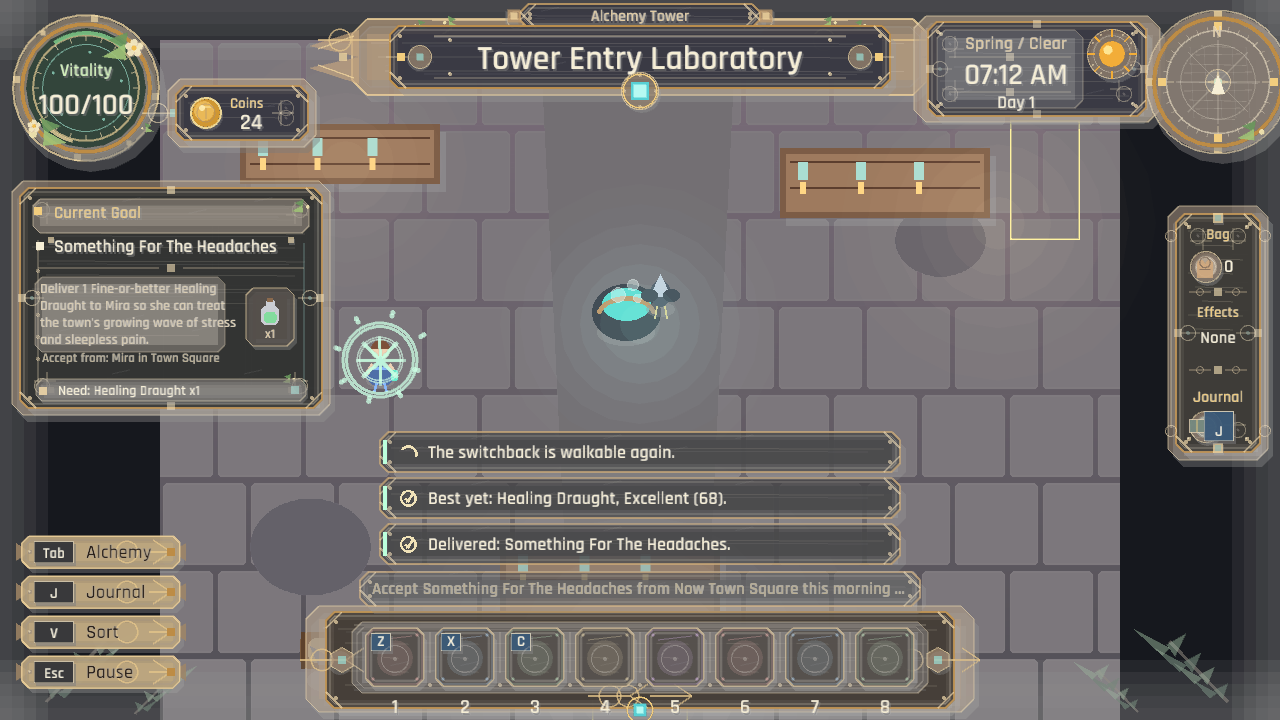
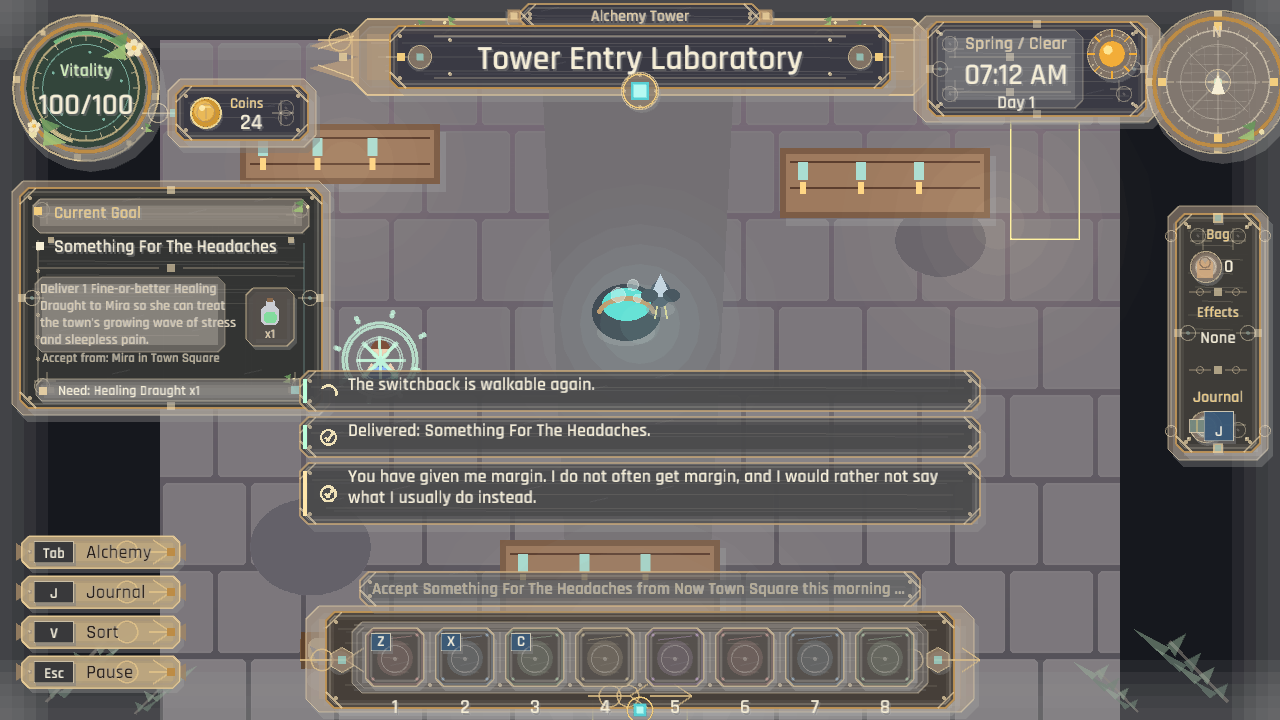
You over-made it. I noticed, obviously (the valley remarks on good work)
Quality has paid coin and standing since the quality pass and not one
townsperson had ever said a word about it, which for a game about being the
valley's alchemist is the wrong way round. Last pass could not fix it because
the channel it would have gone through turned out to be a stub; that is fixed,
so this is the errand it was blocking.

Eight lines, one each and in their own idiom. Rowan notices and refuses to
elaborate. Ione copies the specification out again with your number in the
margin. Wren says you have given her margin and would rather not say what she
usually gets instead. They are raised when a delivery beats the stated bar by
two grades or lands a masterwork against any bar at all, and stay silent for a
bottle that merely cleared it, because praise for everything is praise for
nothing.

An asymmetry fixed on the way: the board path awarded flat rapport and ignored
quality entirely, while the face-to-face path had awarded the exceptional bonus
since the quality pass. The same bottle was worth more standing depending on
which counter it crossed. Both read the same rule now.

A rendering bug the capture caught and no test would have. The banner grew to
two lines for these and the box grew with it, and the text still came out
elided on one line: `wrap_text` returned two lines of seventy-nine characters
and `truncate_text_to_width` then cut the first, because the wrap applies the
UI scale to the font size and the truncate does not. A wrapped line has to be
[…]

Changed region(s): [[0.2188, 0.4889, 0.7812, 0.7944]]

diff --git a/src/ui/hud_toasts.rs b/src/ui/hud_toasts.rs
@@ -8,7 +8,6 @@
 //! loaded, and the two `ui_art.json` keys that named them were quietly
 //! discarded by serde. This is the whole channel, drawn.
 
-use super::super::truncate_text_to_width;
 use super::hud_primitives::*;
 use crate::art::{draw_texture_centered, ArtAssets};
 use crate::view_models::hud::HudView;
@@ -19,17 +18,36 @@ use macroquad_toolkit::ui::draw_ui_text;
 /// from there keeps the newest banner closest to the eye and clear of the goal
 /// note on the left and the bag on the right.
 const TOAST_BOTTOM_OFFSET: f32 = 196.0;
-const TOAST_WIDTH: f32 = 520.0;
-const TOAST_HEIGHT: f32 = 40.0;
-const TOAST_STEP: f32 = 46.0;
+const TOAST_WIDTH: f32 = 680.0;
 const ICON_SIZE: f32 = 26.0;
+pub(crate) const TOAST_FONT: f32 = 18.0;
+pub(crate) const TOAST_LINE_HEIGHT: f32 = 21.0;
+/// A banner holds a sentence, and a sentence that needs a third line belongs in
+/// the journal rather than in something that leaves after two seconds.
+pub(crate) const TOAST_MAX_LINES: usize = 2;
+const TOAST_PADDING: f32 = 19.0;
+const TOAST_GAP: f32 = 6.0;
+
+/// The room a banner's words have, at the reference window. Exported for the
+/// guard that keeps authored lines inside it.
+pub(crate) fn toast_text_width(hud_width: f32) -> f32 {
+    TOAST_WIDTH.min(hud_width - 320.0) - 48.0 - 14.0
+}
 
 pub(super) fn draw_event_toasts(view: &HudView, art: &ArtAssets) {
-    for (index, toast) in view.toasts.iter().enumerate() {
+    let mut bottom = super::hud_h() - TOAST_BOTTOM_OFFSET;
+    for toast in view.toasts.iter() {
         let width = TOAST_WIDTH.min(super::hud_w() - 320.0);
+        let text_width = toast_text_width(super::hud_w());
+        // A banner is as tall as what it has to say. Several of these lines run
+        // past one line at this width, and a fixed box cut them mid-sentence.
+        let lines = super::super::text::wrapped_lines(&toast.text, text_width, TOAST_FONT);
+        let shown = lines.len().clamp(1, TOAST_MAX_LINES);
+        let height = shown as f32 * TOAST_LINE_HEIGHT + TOAST_PADDING;
         let x = super::hud_w() * 0.5 - width * 0.5;
-        let y = super::hud_h() - TOAST_BOTTOM_OFFSET - index as f32 * TOAST_STEP;
-        let rect = Rect::new(x, y, width, TOAST_HEIGHT);
+        let y = bottom - height;
+        bottom = y - TOAST_GAP;
+        let rect = Rect::new(x, y, width, height);
         let accent = Color::new(
             toast.color[0],
             toast.color[1],
@@ -57,13 +75,71 @@ pub(super) fn draw_event_toasts(view: &HudView, art: &ArtAssets) {
             text_x = rect.x + 48.0;
         }
 
-        let text_width = rect.x + rect.w - 14.0 - text_x;
-        draw_ui_text(
-            &truncate_text_to_width(&toast.text, text_width, 18.0),
-            text_x,
-            rect.y + 26.0,
-            18.0,
-            Color::new(bright_ink().r, bright_ink().g, bright_ink().b, toast.alpha),
+        let ink = Color::new(bright_ink().r, bright_ink().g, bright_ink().b, toast.alpha);
+        for (line_index, line) in lines.iter().take(shown).enumerate() {
+            // Drawn as wrapped, not re-measured. Wrapping and truncation
+            // disagree about how wide a string is — the wrap applies the UI
+            // scale to the font size and the truncate does not — so putting a
+            // wrapped line back through `truncate_text_to_width` elided a line
+            // that already fitted, and the banner showed one cut-off sentence
+            // in a box with room for two lines.
+            let overflowed = line_index + 1 == shown && lines.len() > shown;
+            let text = if overflowed {
+                format!("{line}…")
+            } else {
+                line.clone()
+            };
+            draw_ui_text(
+                &text,
+                text_x,
+                rect.y + TOAST_PADDING + line_index as f32 * TOAST_LINE_HEIGHT,
+                TOAST_FONT,
+                ink,
+            );
+        }
+    }
+}
+
+#[cfg(test)]
+mod tests {
+    use super::{toast_text_width, TOAST_MAX_LINES};
+
+    /// Measured off `screenshots/hud/event_toasts.png`: the banner's text column
+    /// is 618 wide at the reference window and wraps at about 60 characters per
+    /// line at font 18. Deliberately generous — a long word wraps early.
+    const CHARS_PER_LINE: usize = 60;
+    /// The shortest window the game is laid out for.
+    const REFERENCE_SCREEN_WIDTH: f32 = 1280.0;
+
+    /// A banner leaves after two seconds and holds two lines. A townsperson's
+    /// remark that needs a third is one nobody will finish reading, and the
+    /// renderer would cut it mid-sentence — the same failure the epilogue and
+    /// the route pane each shipped once.
+    #[test]
+    fn what_a_townsperson_says_about_good_work_fits_the_banner() {
+        let data = crate::data::load_embedded().expect("embedded game data should load");
+        let budget = TOAST_MAX_LINES * CHARS_PER_LINE;
+        assert!(
+            toast_text_width(REFERENCE_SCREEN_WIDTH) > 0.0,
+            "the banner has no room for text at all"
+        );
+
+        let overrun = data
+            .npcs
+            .iter()
+            .filter(|npc| npc.exceptional_delivery_line.len() > budget)
+            .map(|npc| {
+                format!(
+                    "{}: {} characters against {budget}",
+                    npc.id,
+                    npc.exceptional_delivery_line.len()
+                )
+            })
+            .collect::<Vec<_>>();
+
+        assert!(
+            overrun.is_empty(),
+            "remarks that will not fit the banner they are raised in: {overrun:#?}"
         );
     }
 }

diff --git a/src/state/gameplay_bottle_stock.rs b/src/state/gameplay_bottle_stock.rs
@@ -278,6 +278,26 @@ impl GameplayState {
         quest.reward_coins.saturating_mul(over) / 4
     }
 
+    /// Say what the person receiving it thinks of work that beat the bar.
+    ///
+    /// Quality has paid coin and standing since the quality pass, and nobody
+    /// ever said a word about it — the one thing a game about being the
+    /// valley's alchemist should not be silent on. One authored line each, in
+    /// their own idiom, raised as a banner because the payoff channel is where
+    /// a moment like this belongs.
+    pub(super) fn remark_on_exceptional_delivery(&mut self, data: &GameData, npc_id: &str) {
+        let Some(line) = data
+            .npcs
+            .iter()
+            .find(|npc| npc.id == npc_id)
+            .map(|npc| npc.exceptional_delivery_line.clone())
+            .filter(|line| !line.is_empty())
+        else {
+            return;
+        };
+        self.trigger_exceptional_delivery_feedback(line);
+    }
+
     /// Whether a delivery was good enough for the person receiving it to think
     /// better of the player for it: two clear bands over what they asked, or
     /// Masterwork against a request that named any bar at all.
@@ -498,5 +518,70 @@ mod tests {
         quest.minimum_quality_band = String::new();
         assert_eq!(state.quality_bonus_coins(&quest, 4), 0);
         assert!(!state.delivery_was_exceptional(&quest, 4));
+    }
+
+    /// Coin and standing have paid for good work since the quality pass and
+    /// nobody said anything about it. This checks the remark reaches the
+    /// player's screen, and — the half that matters — that it stays quiet for a
+    /// delivery that merely cleared the bar. Praise for everything is praise
+    /// for nothing.
+    #[test]
+    fn beating_the_bar_is_remarked_on_and_meeting_it_is_not() {
+        let data = crate::data::load_embedded().expect("embedded game data should load");
+        let mut state = GameplayState::new(&data);
+        let npc_id = "wren_physician";
+        let expected = data
+            .npcs
+            .iter()
+            .find(|npc| npc.id == npc_id)
+            .map(|npc| npc.exceptional_delivery_line.clone())
+            .expect("Wren should have a line for work that beat the order");
+
+        state.remark_on_exceptional_delivery(&data, npc_id);
+        let toasts = state.build_hud_toasts();
+        assert_eq!(toasts.len(), 1, "nothing was said about exceptional work");
+        assert_eq!(toasts[0].text, expected);
+
+        // Nobody has a word for a bottle that simply met the specification.
+        let mut plain = GameplayState::new(&data);
+        plain.remark_on_exceptional_delivery(&data, "quest_board");
+        assert!(
+            plain.build_hud_toasts().is_empty(),
+            "the board is not a person and has no opinion"
+        );
+    }
+
+    /// Everyone who can receive a delivery needs one, or the remark is a thing
+    /// that happens for some townsfolk and silently does not for others. Both
+    /// paths matter: an arc request handed over face to face, and a board order
+    /// whose beneficiary the prose names.
+    #[test]
+    fn everyone_who_takes_a_delivery_has_something_to_say_about_good_work() {
+        let data = crate::data::load_embedded().expect("embedded game data should load");
+        let mut receivers = std::collections::BTreeSet::new();
+        for quest in &data.quests {
+            if quest.giver_npc_id != "quest_board" {
+                receivers.insert(quest.giver_npc_id.clone());
+            }
+            if !quest.rapport_npc_id.is_empty() {
+                receivers.insert(quest.rapport_npc_id.clone());
+            }
+        }
+
+        let silent = receivers
+            .iter()
+            .filter(|npc_id| {
+                data.npcs
+                    .iter()
+                    .find(|npc| &&npc.id == npc_id)
+                    .is_none_or(|npc| npc.exceptional_delivery_line.is_empty())
+            })
+            .collect::<Vec<_>>();
+
+        assert!(!receivers.is_empty(), "nobody receives deliveries at all");
+        assert!(
+            silent.is_empty(),
+            "townsfolk who take deliveries and never remark on good work: {silent:?}"
+        );
     }
 }

diff --git a/src/state/gameplay_quest_board.rs b/src/state/gameplay_quest_board.rs
@@ -72,12 +72,21 @@ impl GameplayState {
         // A board order is still somebody's problem solved. Without this the
         // repeatable layer — the bulk of the long tail — earned no standing
         // with anyone, however many times it was run.
+        // Beating the bar counts with the person the order serves, on the board
+        // as much as face to face — the arc path has awarded this since the
+        // quality pass and the board path quietly did not, so the same bottle
+        // was worth more standing depending on which counter it crossed.
+        let exceptional = self.delivery_was_exceptional(quest, delivered_rank);
         if !quest.rapport_npc_id.is_empty() {
             *self
                 .progression
                 .relationships
                 .entry(quest.rapport_npc_id.clone())
-                .or_insert(0) += 1;
+                .or_insert(0) += 1 + i32::from(exceptional);
+            if exceptional {
+                let npc_id = quest.rapport_npc_id.clone();
+                self.remark_on_exceptional_delivery(data, &npc_id);
+            }
         }
         self.push_quest_completion_milestones(quest);
         if quest.repeatable {

diff --git a/src/state/gameplay_dialogue.rs b/src/state/gameplay_dialogue.rs
@@ -80,12 +80,15 @@ impl GameplayState {
                 // such. Quality reached the coin purse before it reached
                 // anybody's opinion of the player, which was the wrong way
                 // round for a game about being the town's alchemist.
-                let exceptional = u32::from(self.delivery_was_exceptional(quest, delivered_rank));
+                let exceptional = self.delivery_was_exceptional(quest, delivered_rank);
                 *self
                     .progression
                     .relationships
                     .entry(quest.giver_npc_id.clone())
-                    .or_insert(0) += 2 + exceptional as i32;
+                    .or_insert(0) += 2 + i32::from(exceptional);
+                if exceptional {
+                    self.remark_on_exceptional_delivery(data, &quest.giver_npc_id);
+                }
             }
             self.push_quest_completion_milestones(quest);
             self.trigger_quest_complete_feedback(dialogue_quest_text::complete_toast(&quest.title));

diff --git a/src/data/schema_npcs.rs b/src/data/schema_npcs.rs
@@ -35,6 +35,13 @@ pub(crate) struct NpcDefinition {
     /// (rapport reaches the friend tier). Also recorded as a journal beat.
     #[serde(default)]
     pub(crate) friendship_line: String,
+    /// Said when a delivery clearly beats what was asked for — two grades over
+    /// the stated bar, or a Masterwork against any bar at all. Quality has paid
+    /// coin and rapport since the quality pass and nobody has ever remarked on
+    /// it, which for a game about being the valley's alchemist is the wrong way
+    /// round.
+    #[serde(default)]
+    pub(crate) exceptional_delivery_line: String,
     /// One-time thank-you gift handed over when friendship is first reached.
     #[serde(default)]
     pub(crate) friendship_reward_coins: u32,

diff --git a/src/state/gameplay_init.rs b/src/state/gameplay_init.rs
@@ -315,8 +315,10 @@ impl GameplayState {
         self.progression.total_brews = 12;
         let here = [self.world.player.position.x, self.world.player.position.y];
         self.trigger_route_restored_feedback("The switchback is walkable again.", here);
-        self.trigger_new_best_brew_feedback("Best yet: Healing Draught, Excellent (68).");
         self.trigger_quest_complete_feedback("Delivered: Something For The Headaches.");
+        // The longest thing a banner can be asked to carry: a townsperson's own
+        // words about work that beat what they asked for.
+        self.remark_on_exceptional_delivery(data, "wren_physician");
         self.runtime.status_text = self.next_goal_summary(data);
     }
 

diff --git a/src/state/gameplay_feedback.rs b/src/state/gameplay_feedback.rs
@@ -92,6 +92,13 @@ impl GameplayState {
         );
     }
 
+    /// A townsperson's own words about work that beat what they asked for. It
+    /// takes the best-quality mark rather than the delivery one: what is being
+    /// remarked on is the grade, not the errand.
+    pub(super) fn trigger_exceptional_delivery_feedback(&mut self, toast_text: impl Into<String>) {
+        self.push_event_toast_with_icon(toast_text, rgba(255, 230, 170, 255), "best_quality");
+    }
+
     pub(super) fn trigger_new_best_brew_feedback(&mut self, toast_text: impl Into<String>) {
         self.push_event_toast_with_icon(toast_text, rgba(188, 255, 220, 255), "best_quality");
     }

diff --git a/loop.md b/loop.md
@@ -1525,6 +1525,27 @@ Stop the loop and report if:
   hand; captured at 20 frames rather than the default 150, which would have caught the fade instead.
   **168 tests; the payoff channel says what it has been trying to say all along.**
 
+- **2026-08-03 — the errand the last pass was blocked on, now that there is somewhere to say it.**
+  Quality has paid coin and standing since the quality pass and **not one townsperson had ever
+  remarked on it**. Eight `exceptional_delivery_line`s, one each and in their own idiom — Rowan:
+  *"You over-made it. I noticed, obviously. That is the whole of what I am going to say about it."*;
+  Wren: *"You have given me margin. I do not often get margin."* — raised when a delivery beats the
+  stated bar by two grades or lands a Masterwork against any bar, and **silent when it merely
+  cleared the bar**, because praise for everything is praise for nothing.
+  *An asymmetry fixed on the way:* the board path awarded flat rapport and ignored quality entirely,
+  so the same bottle was worth more standing depending on which counter it crossed. Both paths now
+  read the same rule.
+  ***A rendering bug the capture caught and the test could not.*** The banner grew to two lines for
+  these, the box grew with it — and the text still came out elided on one line. `wrap_text` returned
+  two lines of 79 characters and `truncate_text_to_width` then cut the first one, because **the wrap
+  applies the UI scale to the font size and the truncate does not**. A wrapped line must be drawn as
+  wrapped, never re-measured. Found with an `eprintln` in the draw loop and a six-frame capture,
+  which is the cheapest debugger this project has.
+  *Guards:* the remark reaches the screen and stays quiet when unearned; everyone who can receive a
+  delivery has a line (both arc givers and board beneficiaries); and every line fits the banner it
+  is raised in, at 2 × 60 characters measured off the capture.
+  **171 tests; the valley finally says thank you for the good stuff.**
+
 ## Deferred (needs a new system; not for this loop)
 
 - Apply-potion-to-target flow (wilted plant, frightened creature, blocked path) — `TODO.md` calls it

diff --git a/TODO.md b/TODO.md
@@ -151,9 +151,24 @@ content with no destination.
   beating a request's stated bar pays a quarter of the fee per band above it;
   a delivery two bands over — or any Masterwork against a stated bar — also
   earns +1 rapport with the giver on top of the usual +2. A request naming no
-  band has nothing to beat and still pays flat. Remaining: NPC reaction lines
-  do not vary with delivered quality, and the band multipliers are Rust
-  constants (see the tuning-into-data item below).
+  band has nothing to beat and still pays flat. Remaining: the band multipliers
+  are Rust constants (see the tuning-into-data item below).
+- ~~Nobody ever says anything about good work~~ **Fixed 2026-08-03.** Quality
+  had paid coin and standing since that pass and not one townsperson remarked on
+  it, which for a game about being the valley's alchemist is the wrong way
+  round. Eight authored `exceptional_delivery_line`s, one each and in their own
+  idiom — Rowan's is "You over-made it. I noticed, obviously. That is the whole
+  of what I am going to say about it." — raised as a banner when a delivery
+  beats the stated bar by two grades or lands a Masterwork against any bar. It
+  stays silent for a bottle that merely cleared the bar, because praise for
+  everything is praise for nothing.
+  The board path also awards the exceptional +1 rapport now: the arc path has
+  since the quality pass and the board quietly did not, so the same bottle was
+  worth more standing depending on which counter it crossed.
+  Three tests: the remark reaches the screen and is silent when unearned,
+  everyone who can receive a delivery has a line, and every line fits the
+  banner — which needed the banner to grow to two lines
+  (`screenshots/hud/event_toasts.png`).
 - ~~The seventh brew — the one that flips "Mastered" — adds nothing~~ **Fixed
   2026-08-02.** All three ramps capped at six, one short of the step that names
   them: the quality bonus and the instability reduction now run to
